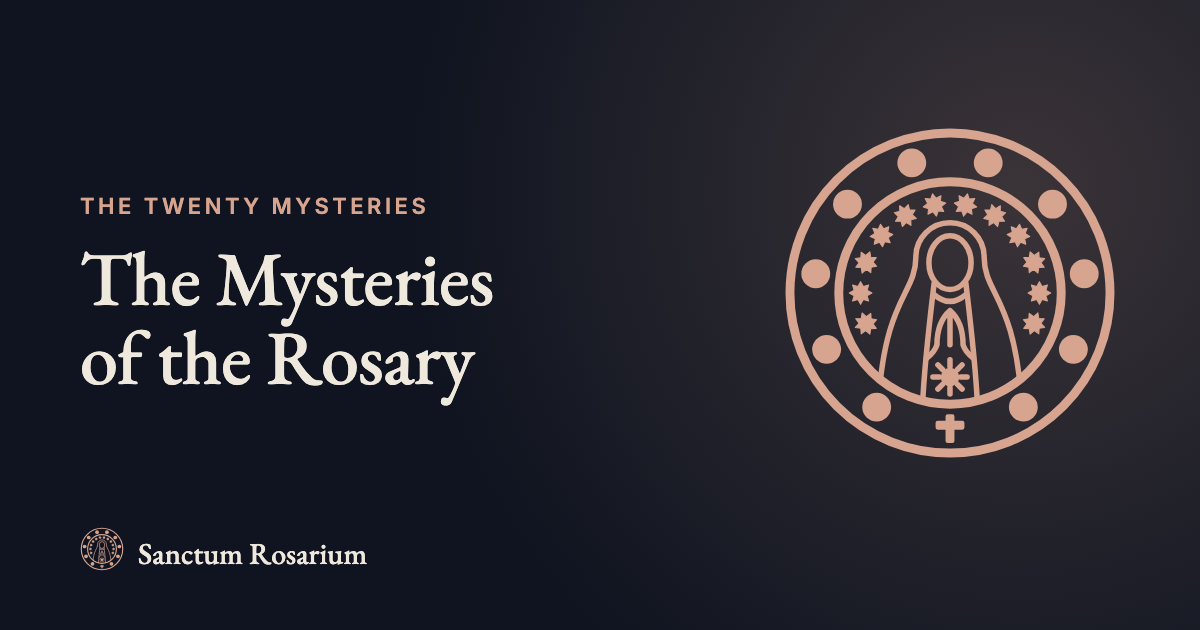
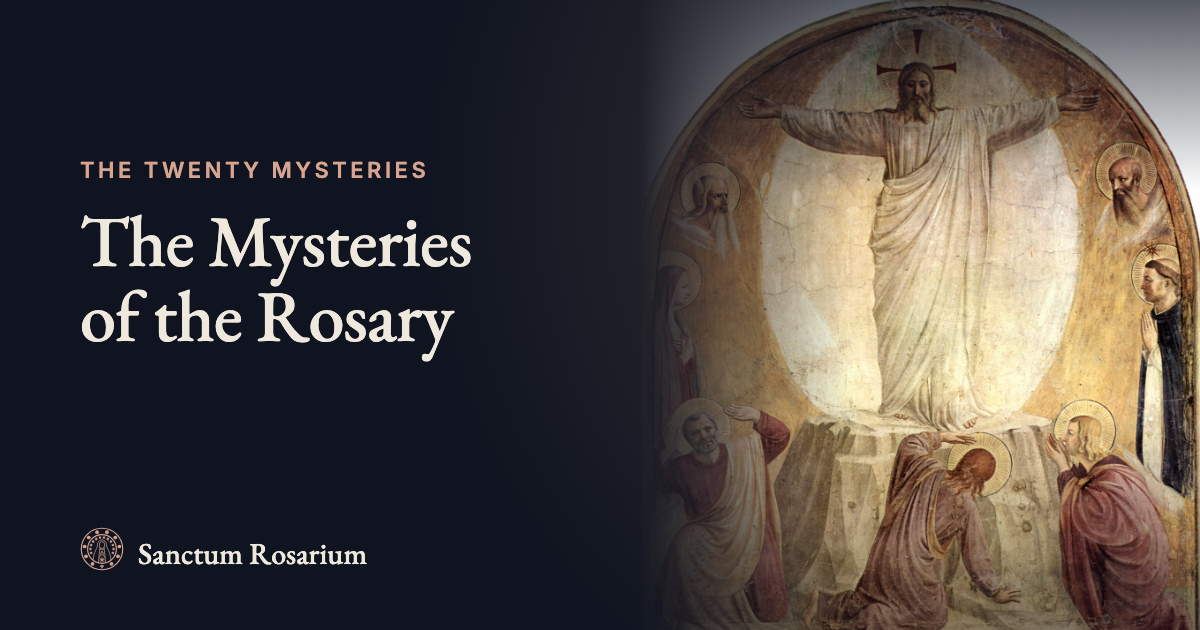
feat: social cards per page and sharper meta copy

diff --git a/site/src/i18n/ui.ts b/site/src/i18n/ui.ts
@@ -8,7 +8,7 @@ const es = {
   'site.name': 'Sanctum Rosarium',
   'site.tagline': 'Reza el Santo Rosario',
   'site.description':
-    'Reza el Santo Rosario cada día con la app Sanctum Rosarium: el misterio del día en un toque, con voz o a tu ritmo, en iPhone, Android y Apple Watch. Gratis, sin cuentas y sin anuncios.',
+    'Reza el Santo Rosario cada día con Sanctum Rosarium: el misterio del día en un toque, con voz o a tu ritmo, en iPhone, Android y Apple Watch.',
   skip: 'Ir al contenido',
   'nav.label': 'Principal',
   'nav.menu': 'Menú',
@@ -129,7 +129,7 @@ const es = {
     'Distribución que propone san Juan Pablo II en Rosarium Virginis Mariae 38, sin quitar la libertad de elegir otros.',
   'mysteries.setTitle': '{set} del Rosario',
   'mysteries.setDescription':
-    'Los cinco {set} del Santo Rosario, con el pasaje del Evangelio de cada uno. Se rezan {days}.',
+    'Los cinco {set} del Santo Rosario, con el pasaje del Evangelio y una pintura de cada uno. Se rezan {days}.',
 
   'today.title': '¿Qué misterios se rezan hoy?',
   'today.description':
@@ -140,14 +140,14 @@ const es = {
 
   'prayers.title': 'Las oraciones del Rosario',
   'prayers.description':
-    'Las oraciones del Santo Rosario completas: Padrenuestro, Avemaría, Gloria, Credo, Salve, la oración de Fátima, la Letanía lauretana y la oración final, con su fuente.',
+    'Las oraciones del Santo Rosario completas y con su fuente: Padrenuestro, Avemaría, Gloria, Credo, Salve, oración de Fátima, Letanía y oración final.',
   'prayers.kicker': 'Oraciones',
   'prayers.lead': 'Cada oración en el orden en que se reza, con el texto de una fuente de la Iglesia.',
   'prayers.latin': 'En latín',
   'prayers.source': 'Texto de',
   'prayers.accessed': 'consultado el',
   'prayers.prayerTitle': '{prayer}: oración completa',
-  'prayers.prayerDescription': '{prayer}, oración del Santo Rosario. Texto completo con su fuente{latin}.',
+  'prayers.prayerDescription': '{prayer}, oración del Santo Rosario: el texto completo con su fuente{latin}, y en qué momento del Rosario se reza.',
   'prayers.withLatin': ', en español y en latín',
   'prayers.whereInRosary': 'Dónde se reza',
   'prayers.respond': 'La segunda parte la responden todos.',
@@ -201,18 +201,18 @@ const es = {
     'Sanctum Rosarium será de código abierto. Si sabes React Native, Swift, Kotlin, diseño o ilustración, tu ayuda es bienvenida.',
   'help.contact': 'Escríbenos',
   'help.github': 'Ver en GitHub',
-  'terms.title': 'Términos y condiciones',
-  'terms.description': 'Los términos de uso de la app Sanctum Rosarium y de este sitio.',
-  'support.title': 'Soporte',
-  'support.description': 'Ayuda con la app Sanctum Rosarium: preguntas frecuentes y cómo escribirnos.',
+  'terms.title': 'Términos y condiciones de uso',
+  'terms.description': 'Los términos de uso de la app Sanctum Rosarium y de este sitio: los textos que se rezan, las imágenes, la propiedad intelectual y las garantías.',
+  'support.title': 'Soporte y preguntas frecuentes',
+  'support.description': 'Ayuda con la app Sanctum Rosarium: si funciona sin conexión, si necesita cuenta, si está en Android, de dónde salen los textos y cómo escribirnos.',
   'support.lead': 'Si algo no funciona, encontraste un error en un texto o tienes una idea, escríbenos. Leemos cada mensaje.',
   'support.write': 'Escribir a soporte',
   'support.faq': 'Preguntas frecuentes',
   'legal.updated': 'Última actualización: 8 de octubre de 2026',
   'footer.legal': 'Legal',
 
-  'privacy.title': 'Privacidad',
-  'privacy.description': 'Sanctum Rosarium no recopila datos: no tiene cuentas, servidor ni analítica.',
+  'privacy.title': 'Aviso de privacidad',
+  'privacy.description': 'Sanctum Rosarium no recopila datos: no tiene cuentas, servidor ni analítica. Lo que rezas se queda en tu teléfono y nadie más lo ve.',
 
   'footer.about':
     'Sanctum Rosarium es una app católica, gratuita y sin anuncios para rezar el Santo Rosario.',
@@ -242,7 +242,7 @@ const en: Record<Key, string> = {
   'site.name': 'Sanctum Rosarium',
   'site.tagline': 'Pray the Holy Rosary',
   'site.description':
-    "Pray the Holy Rosary every day with the Sanctum Rosarium app: the day's mystery in one tap, with a voice or at your own pace, on iPhone, Android and Apple Watch. Free, with no account and no ads.",
+    "Pray the Holy Rosary every day with Sanctum Rosarium: the day's mystery in one tap, with a voice or at your own pace, on iPhone, Android and Apple Watch.",
   skip: 'Skip to content',
   'nav.label': 'Main',
   'nav.menu': 'Menu',
@@ -359,7 +359,7 @@ const en: Record<Key, string> = {
     'The distribution Saint John Paul II proposes in Rosarium Virginis Mariae 38, leaving you free to choose others.',
   'mysteries.setTitle': '{set} of the Rosary',
   'mysteries.setDescription':
-    'The five {set} of the Holy Rosary, with the Gospel passage of each one. Prayed on {days}.',
+    'The five {set} of the Holy Rosary, with the Gospel passage and a painting for each one. Prayed on {days}.',
 
   'today.title': "Today's Rosary mysteries",
   'today.description':
@@ -370,14 +370,14 @@ const en: Record<Key, string> = {
 
   'prayers.title': 'The Prayers of the Rosary',
   'prayers.description':
-    'The prayers of the Holy Rosary in full: Our Father, Hail Mary, Glory Be, Creed, Hail Holy Queen, the Fatima Prayer, the Litany of Loreto and the closing prayer, with their source.',
+    'The prayers of the Holy Rosary in full, with their source: Our Father, Hail Mary, Glory Be, Creed, Hail Holy Queen, Fatima Prayer, Litany and closing prayer.',
   'prayers.kicker': 'Prayers',
   'prayers.lead': 'Every prayer in the order it is prayed, with the text of a Church source.',
   'prayers.latin': 'In Latin',
   'prayers.source': 'Text from',
   'prayers.accessed': 'accessed',
   'prayers.prayerTitle': '{prayer}: full prayer',
-  'prayers.prayerDescription': '{prayer}, a prayer of the Holy Rosary. Full text with its source{latin}.',
+  'prayers.prayerDescription': '{prayer}, a prayer of the Holy Rosary: the full text with its source{latin}, and where in the Rosary it is prayed.',
   'prayers.withLatin': ', in English and in Latin',
   'prayers.whereInRosary': 'Where it is prayed',
   'prayers.respond': 'Everyone answers the second part.',
@@ -432,17 +432,17 @@ const en: Record<Key, string> = {
   'help.contact': 'Write to us',
   'help.github': 'See it on GitHub',
   'terms.title': 'Terms of use',
-  'terms.description': 'The terms of use of the Sanctum Rosarium app and this website.',
-  'support.title': 'Support',
-  'support.description': 'Help with the Sanctum Rosarium app: common questions and how to reach us.',
+  'terms.description': 'The terms of use of the Sanctum Rosarium app and this website: the texts that are prayed, the images, intellectual property and warranties.',
+  'support.title': 'Support and common questions',
+  'support.description': 'Help with the Sanctum Rosarium app: whether it works offline, whether it needs an account, Android, where the texts come from and how to reach us.',
   'support.lead': 'If something does not work, you found a mistake in a text or you have an idea, write to us. We read every message.',
   'support.write': 'Write to support',
   'support.faq': 'Questions',
   'legal.updated': 'Last updated: October 8, 2026',
   'footer.legal': 'Legal',
 
-  'privacy.title': 'Privacy',
-  'privacy.description': 'Sanctum Rosarium collects no data: it has no accounts, no server and no analytics.',
+  'privacy.title': 'Privacy policy',
+  'privacy.description': 'Sanctum Rosarium collects no data: it has no accounts, no server and no analytics. What you pray stays on your phone and nobody else sees it.',
 
   'footer.about': 'Sanctum Rosarium is a free Catholic app with no ads to pray the Holy Rosary.',
   'footer.pray': 'Pray',

diff --git a/site/src/lib/og.ts b/site/src/lib/og.ts
@@ -1,28 +1,59 @@
-import { setSlugs, type Language } from '../i18n/routes';
-import { t } from '../i18n/ui';
-import { mysterySets } from '@sanctamaria/rosary';
+import { mysterySets, type MysterySet } from '@sanctamaria/rosary';
 
+import { prayerPageIds, setSlugs, type Language, type PrayerPageId } from '../i18n/routes';
+import { t } from '../i18n/ui';
+import { hasPrayerPage, prayerName } from './content';
 import { setTitle } from './sets';
 
-export type OgCard = { name: string; language: Language; kicker: string; title: string; subtitle?: string };
+/**
+ * A social card. `art` names a painting in app/assets/mysteries/original; without one the
+ * card shows the medallion.
+ */
+export type OgCard = { name: string; language: Language; kicker: string; title: string; subtitle?: string; art?: string };
 
-/** One social card per section and language; Base picks `/og/<name>-<language>.png`. */
+const setArt: Record<MysterySet, string> = {
+  joyful: 'nativity',
+  luminous: 'baptism',
+  sorrowful: 'agony-in-the-garden',
+  glorious: 'resurrection',
+};
+
+const prayerArt: Partial<Record<PrayerPageId, string>> = {
+  'hail-mary': 'visitation',
+  'hail-holy-queen': 'coronation-of-mary',
+  'litany-of-loreto': 'assumption',
+};
+
+export const prayerCard = (id: PrayerPageId): string => `prayer-${id}`;
+
+/** One social card per page kind and language; Base picks `/og/<name>-<language>.png`. */
 export const ogCards: OgCard[] = (['es', 'en'] as const).flatMap((language) => {
   const translate = t(language);
   const kicker = translate('home.kicker');
   return [
     { name: 'default', language, kicker, title: translate('site.tagline'), subtitle: translate('home.lead') },
-    { name: 'home', language, kicker, title: translate('home.headline'), subtitle: translate('home.lead') },
-    { name: 'how', language, kicker: translate('how.kicker'), title: translate('how.title') },
-    { name: 'mysteries', language, kicker: translate('mysteries.kicker'), title: translate('mysteries.title') },
+    { name: 'home', language, kicker, title: translate('home.headline'), subtitle: translate('home.lead'), art: 'annunciation' },
+    { name: 'how', language, kicker: translate('how.kicker'), title: translate('how.title'), art: 'finding-in-the-temple' },
+    { name: 'mysteries', language, kicker: translate('mysteries.kicker'), title: translate('mysteries.title'), art: 'transfiguration' },
     { name: 'today', language, kicker: translate('today.kicker'), title: translate('today.title') },
-    { name: 'prayers', language, kicker: translate('prayers.kicker'), title: translate('prayers.title') },
-    { name: 'help', language, kicker: translate('help.kicker'), title: translate('help.headline') },
+    { name: 'prayers', language, kicker: translate('prayers.kicker'), title: translate('prayers.title'), art: 'presentation' },
+    { name: 'promises', language, kicker: translate('promises.kicker'), title: translate('promises.title'), art: 'coronation-of-mary' },
+    { name: 'help', language, kicker: translate('help.kicker'), title: translate('help.headline'), art: 'pentecost' },
     ...mysterySets.map((set) => ({
       name: `set-${setSlugs[set].en}`,
       language,
       kicker: translate('mysteries.kicker'),
       title: setTitle(set, language),
+      art: setArt[set],
     })),
+    ...prayerPageIds
+      .filter((id) => hasPrayerPage(id, language))
+      .map((id) => ({
+        name: prayerCard(id),
+        language,
+        kicker: translate('prayers.kicker'),
+        title: prayerName(id, language),
+        art: prayerArt[id],
+      })),
   ];
 });
